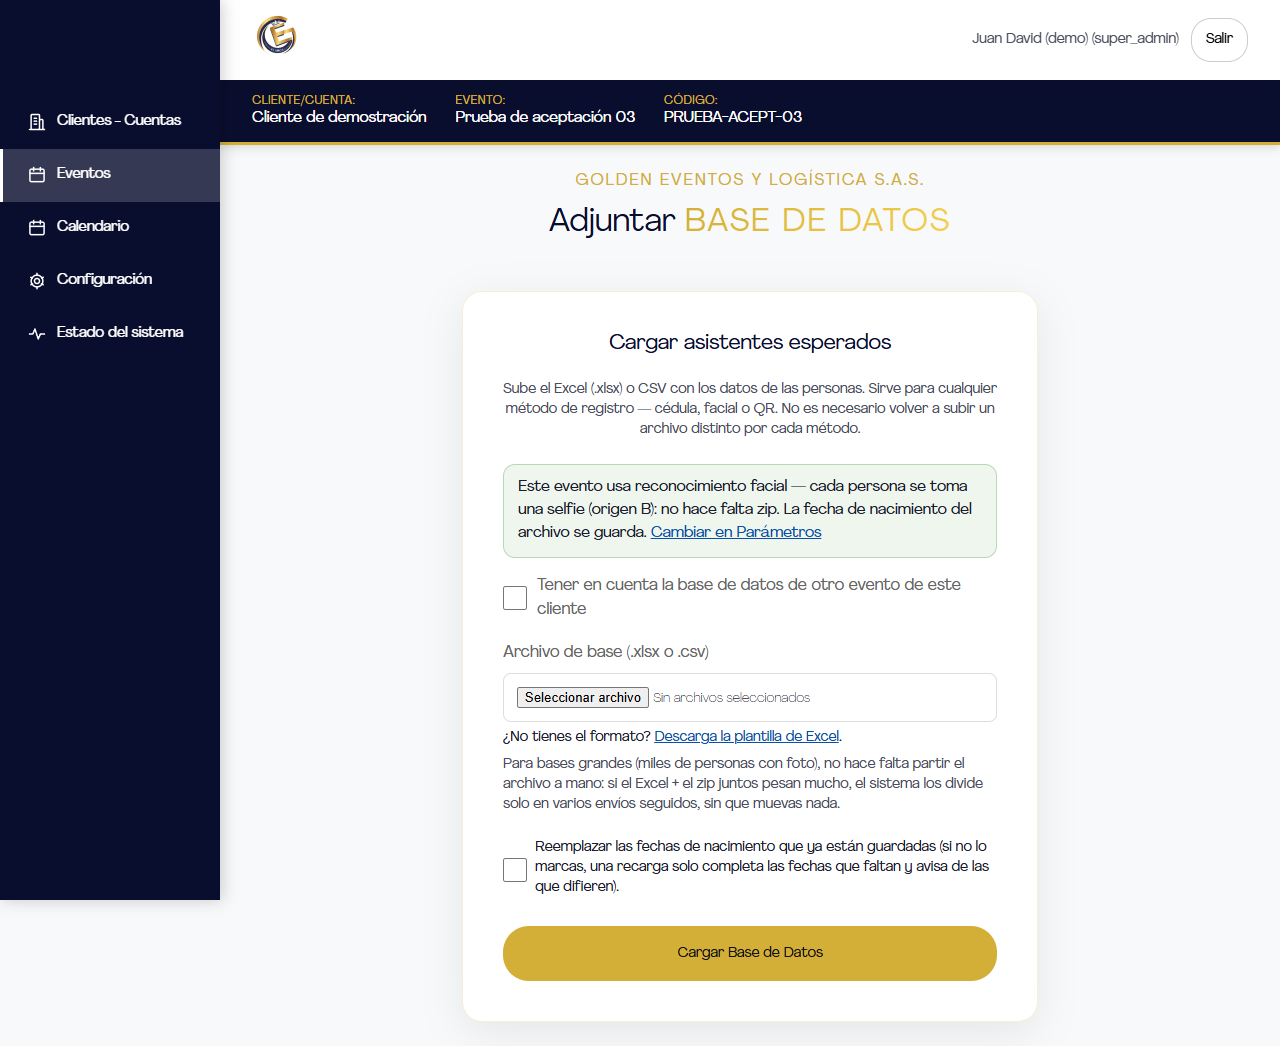
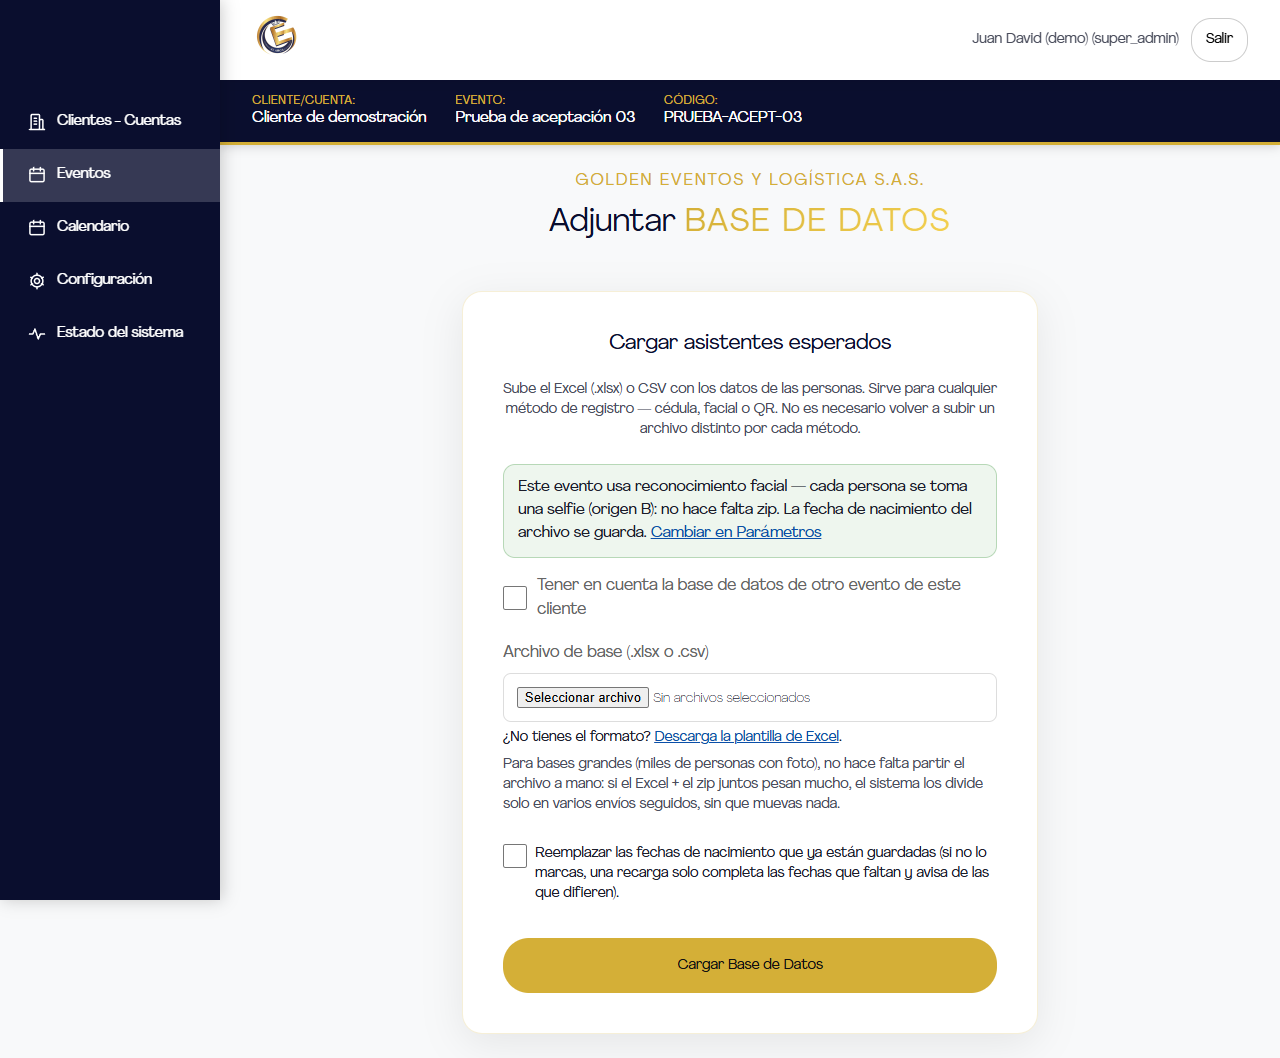
UX (ronda del dueño): radios/casillas alineados con la primera línea, margen para la barra fija, pestañas en una fila deslizable con la activa centrada (y sin desborde a 375 px), menú sin nombre suelto ni encabezado repetido y sello de 14 px; medición real del peso Regular; capturas antes/después

diff --git a/static/css/ux1.css b/static/css/ux1.css
@@ -64,7 +64,9 @@ body.ux1 [style*="color:#a12631"] { color: var(--ux-danger) !important; }
 
 /* ------------------------------------------------------------------ objetivos táctiles */
 body.ux1 input[type="checkbox"], body.ux1 input[type="radio"] { width: 24px !important; height: 24px !important; min-width: 24px; accent-color: var(--ux-navy); flex: none; }
-body.ux1 label:has(> input[type="checkbox"]), body.ux1 label:has(> input[type="radio"]) { min-height: var(--ux-target); align-items: center !important; padding: var(--ux-s1) 0; cursor: pointer; }
+/* el control se alinea con la PRIMERA línea del texto (si el texto ocupa dos, el control no baja al centro); 10 px arriba y abajo con línea de 24 px = 44 px de objetivo táctil */
+body.ux1 label:has(> input[type="checkbox"]), body.ux1 label:has(> input[type="radio"]) { align-items: flex-start !important; gap: var(--ux-s2) !important; padding: 10px 0; cursor: pointer; }
+body.ux1 label:has(> input[type="checkbox"]) > input, body.ux1 label:has(> input[type="radio"]) > input { margin: 0 !important; }
 body.ux1 button, body.ux1 .golden-btn, body.ux1 .small-btn, body.ux1 a.small-btn { min-height: var(--ux-target); min-width: 24px; font-size: var(--ux-fs-label); font-family: var(--ux-font); font-weight: 700; padding-left: var(--ux-s4); padding-right: var(--ux-s4); cursor: pointer; }
 body.ux1 .btn-table-delete, body.ux1 button.ux-compact { min-height: 32px; }
 body.ux1 input[type="text"], body.ux1 input[type="email"], body.ux1 input[type="date"], body.ux1 input[type="number"], body.ux1 input[type="search"], body.ux1 select, body.ux1 textarea {
@@ -103,8 +105,8 @@ body.ux1 .mode-card .mode-icon { width: 48px; height: 48px; border-radius: var(-
 body.ux1 .mode-card .mode-title { font-size: 1.0625rem; }
 
 /* ------------------------------------------------------------------ Parámetros en pestañas */
-body.ux1 .ux-tabs { display: flex; gap: var(--ux-s2); flex-wrap: wrap; margin: 0 0 var(--ux-s4); border-bottom: 2px solid var(--ux-line); padding-bottom: 0; }
-body.ux1 .ux-tab { background: transparent; border: 0; border-bottom: 4px solid transparent; border-radius: 0; margin-bottom: -2px; color: var(--ux-ink-2); font-weight: 700; padding: var(--ux-s3) var(--ux-s4); }
+body.ux1 .ux-tabs { display: flex; gap: var(--ux-s2); flex-wrap: nowrap; overflow-x: auto; overscroll-behavior-x: contain; -webkit-overflow-scrolling: touch; scrollbar-width: thin; margin: 0 0 var(--ux-s4); border-bottom: 2px solid var(--ux-line); padding-bottom: 0; }      /* una sola fila: en celular se desliza y la pestaña activa se centra (JS) */
+body.ux1 .ux-tab { flex: none; white-space: nowrap; background: transparent; border: 0; border-bottom: 4px solid transparent; border-radius: 0; margin-bottom: -2px; color: var(--ux-ink-2); font-weight: 700; padding: var(--ux-s3) var(--ux-s4); }
 body.ux1 .ux-tab[aria-selected="true"] { color: var(--ux-navy); border-bottom-color: var(--ux-gold); }
 body.ux1 .ux-tab .ux-dot { display: none; width: 10px; height: 10px; border-radius: 50%; background: var(--ux-danger); margin-left: var(--ux-s2); vertical-align: middle; }
 body.ux1 .ux-tab.dirty .ux-dot { display: inline-block; }
@@ -127,3 +129,20 @@ body.ux1 .ux-lead { color: var(--ux-ink-2); font-size: var(--ux-fs-body); max-wi
 body.ux1 .golden-main { padding-top: var(--ux-s5); }
 body.ux1 a[style*="golden-primary"] { color: var(--ux-link) !important; }
 body.ux1 .ux-help { margin-top: var(--ux-s4); }
+
+/* ------------------------------------------------------------------ ronda de revisión del dueño (17 oct): barra fija, encabezado repetido, sello de estado */
+/* la barra «Guardar» es fija: ni el desplazamiento por teclado ni el final de la pestaña dejan texto o botones debajo de ella */
+:root:has(body.ux1) { scroll-padding-bottom: 112px; }
+body.ux1 .ux-panel { padding-bottom: var(--ux-s4); }
+body.ux1 .ux-panel > :nth-last-child(2) { margin-bottom: var(--ux-s6, 32px); }
+/* el nombre de la pestaña ya titula el contenido: el encabezado de la tarjeta queda solo para lectores de pantalla */
+body.ux1 [data-ux-tab="facial"] > h4:first-child { position: absolute; width: 1px; height: 1px; margin: -1px; padding: 0; overflow: hidden; clip: rect(0 0 0 0); white-space: nowrap; border: 0; }
+/* sello de estado del evento: 14 px mínimo y colores que cumplen 4,5:1 */
+body.ux1 .status-pill { font-size: var(--ux-fs-label); padding: 6px 16px; }
+body.ux1 .status-creado { background: #e3eefb; color: var(--ux-link); }
+body.ux1 .status-en_proceso { background: #e1f3e6; color: var(--ux-ok); }
+body.ux1 .status-finalizado { background: #e9eaf0; color: var(--ux-ink-2); }
+/* celular de 375 px: un fieldset o un select con una opción larga no pueden ensanchar la página (el navegador la achicaba) */
+body.ux1 fieldset, body.ux1 fieldset > * { min-width: 0; }
+body.ux1 select, body.ux1 input, body.ux1 textarea { max-width: 100%; }
+body.ux1 [style*="display:grid"]:not([style*="grid-template"]), body.ux1 [style*="display: grid"]:not([style*="grid-template"]) { grid-template-columns: minmax(0, 1fr); }      /* una pista de grid «auto» crece hasta el texto más largo; así se queda dentro de la pantalla */

diff --git a/templates/kiosk_parametros.html b/templates/kiosk_parametros.html
@@ -951,8 +951,16 @@
             tabEl.setAttribute('aria-selected', on ? 'true' : 'false');
             tabEl.tabIndex = on ? 0 : -1;
         });
+        centerActive(id);
         if (push !== false && history.replaceState) history.replaceState(null, '', '#' + id);
     }
+    // En celular las pestañas van en UNA fila que se desliza: la activa se centra para que siempre se vea.
+    function centerActive(id) {
+        const act = document.getElementById(`uxtab-${id}`);
+        if (!act) return;
+        bar.scrollLeft += act.getBoundingClientRect().left - bar.getBoundingClientRect().left - (bar.clientWidth - act.offsetWidth) / 2;
+    }
+    window.addEventListener('load', () => { const cur = present.find((t) => !panels[t.id].hidden); if (cur) centerActive(cur.id); });
     const fromHash = (location.hash || '').slice(1);
     show(present.some((t) => t.id === fromHash) ? fromHash : present[0].id, false);
     window.addEventListener('hashchange', () => { const h = location.hash.slice(1); if (present.some((t) => t.id === h)) show(h, false); });

diff --git a/templates/kiosk_select.html b/templates/kiosk_select.html
@@ -53,7 +53,6 @@
 
 <main class="golden-main">
   <div class="golden-container" style="padding: 4rem 2rem; text-align:center;">
-    <span style="color: var(--golden-primary); font-weight:600; text-transform:uppercase; letter-spacing:2px; font-size:0.85rem;">{{ event.name }}</span>
     <h2 style="margin-top:10px;">¿Qué vas a hacer hoy?</h2>
     <p style="color:#666; margin-top:0.5rem;">Distintas personas pueden operar al mismo tiempo en el mismo evento.</p>
     <div>

diff --git a/tests/test_ux_fase1.py b/tests/test_ux_fase1.py
@@ -214,3 +214,46 @@ def test_text_under_18_px_uses_agrandir_regular_and_thin_is_kept_for_18_px_or_mo
     assert sizes["body"] == 16 and sizes["label"] == 14 and all(px >= 18 for name, px in sizes.items() if name not in ("body", "label"))      # lo que no es Regular (>= 18 px) son títulos
     agrandir = open("static/css/agrandir.css", encoding="utf-8").read()
     assert "font-weight: 100 500" in agrandir and "font-weight: 600 900" in agrandir and "agrandir-regular.otf" in agrandir.split("font-weight: 600 900")[0].rsplit("@font-face", 1)[1]
+
+
+# ------------------------------------------------------------------------------------------------------------------------------------ ronda de revisión del dueño (17 oct)
+def test_radios_and_checkboxes_align_with_the_first_line_of_their_text():
+    rule = re.search(r'body\.ux1 label:has\(> input\[type="checkbox"\]\), body\.ux1 label:has\(> input\[type="radio"\]\) \{(.*?)\}', CSS, re.S).group(1)
+    assert "align-items: flex-start !important" in rule and "align-items: center" not in rule and "padding: 10px 0" in rule      # 24 px de línea + 20 = 44 px de objetivo
+    assert 'label:has(> input[type="radio"]) > input { margin: 0 !important; }' in CSS
+
+
+def test_the_fixed_save_bar_never_covers_the_last_lines_or_buttons():
+    assert ":root:has(body.ux1) { scroll-padding-bottom: 112px; }" in CSS and "body.ux1 .ux-panel > :nth-last-child(2) { margin-bottom: var(--ux-s6, 32px); }" in CSS
+    assert "position: sticky; bottom: 0" in CSS
+
+
+def test_the_six_tabs_stay_in_one_scrollable_row_and_the_active_one_is_centered(client, factory, db):
+    tabs = re.search(r"body\.ux1 \.ux-tabs \{(.*?)\}", CSS, re.S).group(1)
+    assert "flex-wrap: nowrap" in tabs and "overflow-x: auto" in tabs and "flex-wrap: wrap" not in tabs
+    assert "flex: none; white-space: nowrap" in CSS
+    factory.staff("super_admin", "su")
+    ev = factory.event("creado", facial_enabled=True)
+    login(client, "su")
+    page = client.get(f"/kiosk/{ev.id}/parametros").text
+    assert "function centerActive(id)" in page and "bar.scrollLeft +=" in page and "centerActive(id);" in page
+    assert "fieldset > * { min-width: 0; }" in CSS and "grid-template-columns: minmax(0, 1fr)" in CSS            # a 375 px nada ensancha la página
+
+
+def test_event_menu_has_no_loose_event_name_and_the_status_badge_is_14_px_with_enough_contrast(client, factory, db):
+    ev = _event(client, factory, "coordinador")
+    page = client.get(f"/kiosk/{ev.id}").text
+    assert f"letter-spacing:2px; font-size:0.85rem;\">{ev.name}</span>" not in page and "¿Qué vas a hacer hoy?" in page
+    assert "body.ux1 .status-pill { font-size: var(--ux-fs-label);" in CSS
+    for state, bg, fg in (("creado", "#e3eefb", "ux-link"), ("en_proceso", "#e1f3e6", "ux-ok"), ("finalizado", "#e9eaf0", "ux-ink-2")):
+        assert f"body.ux1 .status-{state} {{ background: {bg}; color: var(--{fg}); }}" in CSS
+        assert _ratio(_token(fg), bg) >= 4.5, state
+
+
+def test_the_repeated_card_heading_of_the_facial_tab_is_kept_only_for_screen_readers(client, factory, db):
+    factory.staff("super_admin", "su")
+    ev = factory.event("creado", facial_enabled=True)
+    login(client, "su")
+    page = client.get(f"/kiosk/{ev.id}/parametros").text
+    assert "Reconocimiento facial: paso guiado" in page                                                  # sigue en la página (lectores de pantalla y pruebas existentes)
+    assert 'body.ux1 [data-ux-tab="facial"] > h4:first-child { position: absolute; width: 1px; height: 1px;' in CSS

diff --git a/docs/ux/MEDICION_AGRANDIR.md b/docs/ux/MEDICION_AGRANDIR.md
@@ -23,3 +23,15 @@ Los archivos traen: «Copyright © 2018 by Alexander Slobzheninov. All rights re
 ## Decisión del dueño (17 oct 2026): aplicada
 Todo texto de menos de 18 px (cuerpo, ayuda, etiquetas y campos de formulario) usa el peso 600 = Agrandir Regular (`--ux-weight-small` en `static/css/ux1.css`); Thin queda para 18 px o más (hoy ningún texto: los títulos ya van en 700). Medido: ayuda 14 px, 8,4:1 también en el trazo; cuerpo 16 px, 16,7:1. Capturas: `capturas/agrandir_*.png`.
 Efecto secundario a tener en cuenta: como Thin y Regular ahora se ven iguales de pesados, una negrilla dentro de un párrafo («**Usa rostro.** Quien acepte…») ya no se distingue por peso (700 también cae en Regular); si hace falta énfasis, hay que usar color o tamaño. Y si alguien elige otra tipografía en Configuración > Apariencia, 600 es semi-negrita en esa familia.
+
+## Verificación sobre la página real (Parámetros > Reconocimiento facial, Chrome, 17 oct, tras aplicar el peso 600)
+Núcleo del trazo = 0,25 % de píxeles más oscuros del elemento, contra su fondo real.
+| Elemento | Peso / tamaño | Monitor normal (1×) | iPad / celular (2×) |
+|---|---|---|---|
+| Ayuda bajo el título de la tarjeta | 600 / 14 px | **8,4:1** | 8,4:1 |
+| Etiqueta («Responsable del tratamiento») | 600 / 16 px | **16,7:1** | 16,7:1 |
+| Campo de formulario (select) | 600 / 16 px | **16,7:1** | 16,7:1 |
+| «Todo guardado» | 600 / 14 px | **8,4:1** | 8,4:1 |
+| Introducción de la pestaña | 600 / 16 px | **7,5:1** (sobre el fondo gris de la página) | 7,5:1 |
+
+Todos cumplen 4,5:1 en el trazo (antes, con Thin, la ayuda llegaba a 5,0:1 en un monitor normal). Comparación visual: `capturas_ronda2/paso1_antes_thin_ipad.png` y `paso1_despues_regular_ipad.png`.
